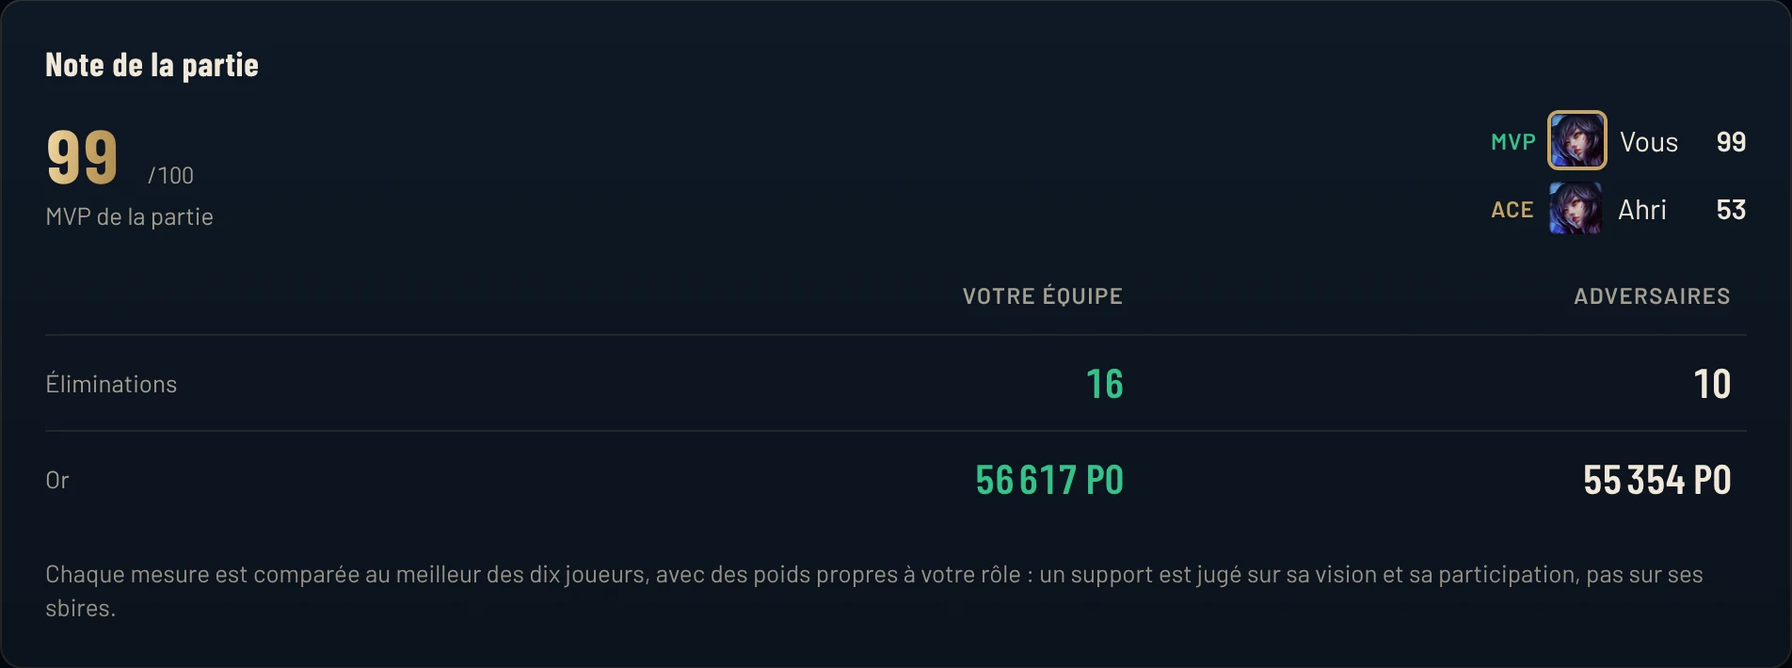
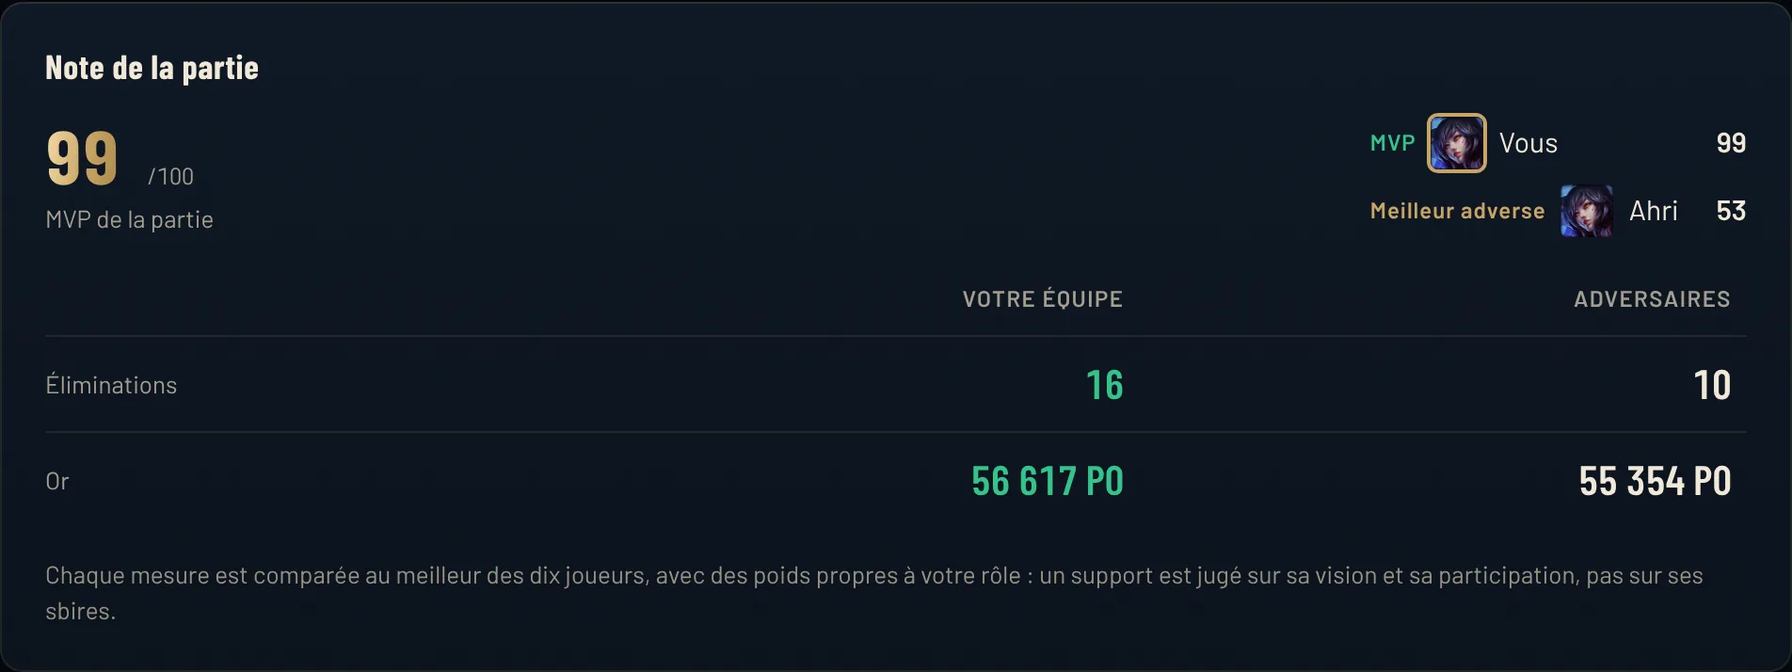
Site : captures et textes à jour de la 0.3.0-beta.16
- Captures reprises depuis l'aperçu de la beta.16 (accueil, sélection,
  bilan en onglets, tier list, collection, chargement, Ctrl+X, HUD, note).
- Version anglaise : ses propres captures dans assets/captures/en/.
- Textes FR/EN : raisons propres à chaque option, 18 niveaux de
  compétences, bilan en quatre onglets, meilleur adverse au lieu d'ACE,
  minuteurs à icônes, or des équipes au TAB, S+ limité aux cinq
  meilleurs, LP du jour sur l'accueil, note sur 100 dans l'historique.
- Anglais : l'app n'est plus annoncée « en français pour l'instant ».

Claude-Session: https://claude.ai/code/session_017boazsWtTrJj6DZK9N5QCn

diff --git a/docs/en/index.html b/docs/en/index.html
@@ -64,11 +64,11 @@
         "url": "https://rifutajine.github.io/rifu-releases/en/",
         "image": "https://rifutajine.github.io/rifu-releases/assets/og.jpg",
         "screenshot": [
-          "https://rifutajine.github.io/rifu-releases/assets/captures/selection.webp",
-          "https://rifutajine.github.io/rifu-releases/assets/captures/chargement.webp",
-          "https://rifutajine.github.io/rifu-releases/assets/captures/panneau.webp",
-          "https://rifutajine.github.io/rifu-releases/assets/captures/bilan.webp",
-          "https://rifutajine.github.io/rifu-releases/assets/captures/collection.webp"
+          "https://rifutajine.github.io/rifu-releases/assets/captures/en/selection.webp",
+          "https://rifutajine.github.io/rifu-releases/assets/captures/en/chargement.webp",
+          "https://rifutajine.github.io/rifu-releases/assets/captures/en/panneau.webp",
+          "https://rifutajine.github.io/rifu-releases/assets/captures/en/bilan.webp",
+          "https://rifutajine.github.io/rifu-releases/assets/captures/en/collection.webp"
         ],
         "featureList": [
           "Draft help from your own pool, based on what your team comp is missing",
@@ -76,7 +76,7 @@
           "Scouting of all ten players on the loading screen",
           "Adjustable in-game overlays: HUD, player panel, item gaps, minimap timers",
           "ARAM and ARAM Mayhem: team gaps, your champion compared with the bench, mode-specific builds, most picked augments",
-          "Post-game score out of 100 with MVP and ACE",
+          "Post-game recap in four tabs, scored out of 100",
           "LP tracking and progression",
           "Tier list by role and champion pages",
           "Skin collection with store value in RP"
@@ -88,8 +88,8 @@
           { "@type": "Question", "name": "Is RIFU free?", "acceptedAnswer": { "@type": "Answer", "text": "Yes, completely. In the long run, RIFU will be funded by discreet ads, only inside the RIFU window and outside games: never in champ select, on the loading screen, in game or in an overlay." } },
           { "@type": "Question", "name": "Does RIFU replace Porofessor or DPM?", "acceptedAnswer": { "@type": "Answer", "text": "That's the goal. RIFU brings loading screen scouting, a draft assistant, in-game overlays, a post-game breakdown and LP tracking into one app, with no subscription. Its strength: it explains what your comp is missing and suggests champions from your own pool." } },
           { "@type": "Question", "name": "Is my account at risk?", "acceptedAnswer": { "@type": "Answer", "text": "RIFU only uses the interfaces Riot provides to third-party apps: the Riot API, the League client API and the live game data. It never reads the game's memory, never modifies League's files and never plays for you." } },
-          { "@type": "Question", "name": "Is the app available in English?", "acceptedAnswer": { "@type": "Answer", "text": "Not yet. For now, the app's interface is in French, as shown in the screenshots on this page." } },
-          { "@type": "Question", "name": "How is the score out of 100 calculated?", "acceptedAnswer": { "@type": "Answer", "text": "Each stat of the game (kills, participation, damage, gold, minions, vision, objectives) is compared with the best of the ten players, then weighted by your role. The best player on the winning team is MVP, the best on the losing team is ACE. It is neither a rank nor an MMR estimate." } },
+          { "@type": "Question", "name": "Is the app available in English?", "acceptedAnswer": { "@type": "Answer", "text": "Yes. The app is fully available in English and French. It follows your Windows language, and you can switch it in Settings › Language." } },
+          { "@type": "Question", "name": "How is the score out of 100 calculated?", "acceptedAnswer": { "@type": "Answer", "text": "Each stat of the game (kills, participation, damage, gold, minions, vision, objectives) is compared with the best of the ten players, then weighted by your role. The best player on the winning team is MVP; the recap also names the best player on the other team. It is neither a rank nor an MMR estimate." } },
           { "@type": "Question", "name": "Do I need to install Overwolf?", "acceptedAnswer": { "@type": "Answer", "text": "No. RIFU is a standalone app: it doesn't need the Overwolf client." } },
           { "@type": "Question", "name": "Which modes, servers and systems?", "acceptedAnswer": { "@type": "Answer", "text": "Summoner's Rift (normals, ranked, Co-op vs. AI, custom games), Swiftplay, ARAM and ARAM Mayhem. In Arena, RIFU gives no draft advice, and Brawl games aren't tracked. EUW server, on Windows 10 and 11." } }
         ]
@@ -138,14 +138,14 @@
             <li>100% free</li>
             <li>Official Riot APIs</li>
             <li>No Overwolf client</li>
-            <li>App in French for now</li>
+            <li>English and French</li>
           </ul>
         </div>
         <div class="scene">
           <div class="scene-inner" data-tilt>
-            <div class="window"><img src="../assets/captures/accueil-1x.webp" srcset="../assets/captures/accueil-1x.webp 1240w, ../assets/captures/accueil.webp 2480w" sizes="(max-width: 960px) 100vw, 640px" width="2480" height="1550" fetchpriority="high" alt="RIFU home screen: the player banner with their rank, today's numbers, recent games and the 30-day LP curve."></div>
-            <img class="float float-hud" src="../assets/captures/hud-1x.webp" srcset="../assets/captures/hud-1x.webp 450w, ../assets/captures/hud.webp 900w" sizes="(max-width: 960px) 40vw, 320px" width="900" height="453" alt="In-game HUD: CS per minute against your lane opponent, kill participation, vision per minute and next item.">
-            <img class="float float-note" src="../assets/captures/note-1x.webp" srcset="../assets/captures/note-1x.webp 952w, ../assets/captures/note.webp 1904w" sizes="(max-width: 960px) 40vw, 320px" width="1904" height="710" alt="Game score: 99 out of 100, MVP.">
+            <div class="window"><img src="../assets/captures/en/accueil-1x.webp" srcset="../assets/captures/en/accueil-1x.webp 1240w, ../assets/captures/en/accueil.webp 2480w" sizes="(max-width: 960px) 100vw, 640px" width="2480" height="1550" fetchpriority="high" alt="RIFU home screen: the player banner with their rank, today's LP, last three games and pool by role."></div>
+            <img class="float float-hud" src="../assets/captures/en/hud-1x.webp" srcset="../assets/captures/en/hud-1x.webp 450w, ../assets/captures/en/hud.webp 900w" sizes="(max-width: 960px) 40vw, 320px" width="900" height="516" alt="In-game HUD: CS per minute against your lane opponent, kill participation, vision per minute and next item.">
+            <img class="float float-note" src="../assets/captures/en/note-1x.webp" srcset="../assets/captures/en/note-1x.webp 952w, ../assets/captures/en/note.webp 1904w" sizes="(max-width: 960px) 40vw, 320px" width="1904" height="678" alt="Game score: 99 out of 100, MVP, and the best enemy.">
           </div>
         </div>
       </div>
@@ -219,17 +219,17 @@
                 <article class="option" data-option>
                   <header><img src="../assets/champions/galio.webp" alt="" width="44" height="44" loading="lazy"><div><b>Galio</b><span>Your pool · 50k mastery</span></div></header>
                   <div class="tags"><em>AP damage</em><em>Frontline</em><em>Engage</em></div>
-                  <p>Fills the missing frontline and magic damage.</p>
+                  <p>The only one with frontline and engage.</p>
                 </article>
                 <article class="option" data-option>
                   <header><img src="../assets/champions/orianna.webp" alt="" width="44" height="44" loading="lazy"><div><b>Orianna</b><span>Your pool · 40k mastery</span></div></header>
                   <div class="tags"><em>AP damage</em><em>Crowd control</em></div>
-                  <p>Magic damage and zone control, solid against Zed.</p>
+                  <p>The only one good against Zed, with zone control.</p>
                 </article>
                 <article class="option" data-option>
                   <header><img src="../assets/champions/ahri.webp" alt="" width="44" height="44" loading="lazy"><div><b>Ahri</b><span>Your pool · 100k mastery</span></div></header>
                   <div class="tags"><em>AP damage</em><em>Comfort</em></div>
-                  <p>Your most played champion: 7 wins out of 10.</p>
+                  <p>You won 7 of 10 games on it: your top comfort pick.</p>
                 </article>
               </div>
             </div>
@@ -258,16 +258,17 @@
             <span class="num" aria-hidden="true">01</span>
             <p class="eyebrow">Champ select</p>
             <h2>Your options, each with its reason</h2>
-            <p>RIFU follows the draft live and shows you what each champion in your pool brings to your team. You always have the final say.</p>
+            <p>RIFU follows the draft live and tells you what each champion in your pool brings that the others don't. You always have the final say.</p>
             </div>
             <ul class="checks">
               <li>Three options from your pool, with no forced ranking</li>
+              <li>A reason of its own for each: “The only one with engage”, “You won 4 of 5 games on it”</li>
               <li>Type any champion: RIFU rates it alongside the others</li>
               <li>Suggested bans and an “us vs. them” comp view, axis by axis</li>
-              <li>Runes, summoner spells and item set imported in one click</li>
+              <li>Runes, summoner spells, all 18 skill levels and item set imported in one click</li>
             </ul>
           </div>
-          <figure class="shot-frame reveal"><a class="zoom" href="../assets/captures/selection.webp"><img class="main" src="../assets/captures/selection-1x.webp" srcset="../assets/captures/selection-1x.webp 1240w, ../assets/captures/selection.webp 2480w" sizes="(max-width: 1200px) 100vw, 1160px" width="2480" height="1550" loading="lazy" alt="Champ select in RIFU: your team, the enemies and three options from your pool, Ahri, Galio and Orianna, with their reasons."></a></figure>
+          <figure class="shot-frame reveal"><a class="zoom" href="../assets/captures/en/selection.webp"><img class="main" src="../assets/captures/en/selection-1x.webp" srcset="../assets/captures/en/selection-1x.webp 1240w, ../assets/captures/en/selection.webp 2480w" sizes="(max-width: 1200px) 100vw, 1160px" width="2480" height="1550" loading="lazy" alt="Champ select in RIFU: your team, the enemies and three options from your pool, Ahri, Galio and Orianna, each with what it brings that the others don't."></a></figure>
         </div>
       </section>
 
@@ -283,11 +284,11 @@
             <ul class="checks">
               <li>Rank, mastery, form and activity of every player, row by row</li>
               <li>Premades spelled out: “Duo with Poing”, “Trio with…”</li>
-              <li>Tags such as “On fire”, “One-trick” and “Losing streak”</li>
+              <li>Tags such as “On a roll”, “One-trick” and “Loss streak”</li>
               <li>Each team's power spikes and gaps, the game plan in one sentence</li>
             </ul>
           </div>
-          <figure class="shot-frame reveal"><a class="zoom" href="../assets/captures/chargement.webp"><img class="main" src="../assets/captures/chargement-1x.webp" srcset="../assets/captures/chargement-1x.webp 1280w, ../assets/captures/chargement.webp 2560w" sizes="(max-width: 1200px) 100vw, 1160px" width="2560" height="1440" loading="lazy" alt="RIFU's full-screen loading screen: the game plan up top, then all ten players with their skin art, rank, tags, form and premade group."></a></figure>
+          <figure class="shot-frame reveal"><a class="zoom" href="../assets/captures/en/chargement.webp"><img class="main" src="../assets/captures/en/chargement-1x.webp" srcset="../assets/captures/en/chargement-1x.webp 1280w, ../assets/captures/en/chargement.webp 2560w" sizes="(max-width: 1200px) 100vw, 1160px" width="2560" height="1440" loading="lazy" alt="RIFU's full-screen loading screen: the game plan up top, then all ten players with their skin art, rank, tags, form and premade group."></a></figure>
         </div>
       </section>
 
@@ -304,13 +305,13 @@
               <li>CS/min against your lane opponent, kill participation, vision per minute</li>
               <li>Next item, adapted to the enemy comp without weakening your champion</li>
               <li>Skill to level up, and a gold halo on your ward when you're missing one</li>
-              <li>Minimap timers, and your team's Baron and Elder buffs</li>
-              <li>Item gaps lane by lane while holding <kbd>TAB</kbd></li>
+              <li>Minimap timers with one icon per objective, dragon and Baron in gold</li>
+              <li>Team gold and item gaps lane by lane while holding <kbd>TAB</kbd></li>
             </ul>
           </div>
           <figure class="shot-frame reveal">
-            <a class="zoom" href="../assets/captures/panneau.webp"><img class="main" src="../assets/captures/panneau-1x.webp" srcset="../assets/captures/panneau-1x.webp 1440w, ../assets/captures/panneau.webp 2880w" sizes="(max-width: 1200px) 100vw, 1160px" width="2880" height="1800" loading="lazy" alt="Ctrl + X panel in game: all ten players with their rank, form, premade group and items, then the recommended build and next item."></a>
-            <img class="float float-hud" src="../assets/captures/hud-1x.webp" srcset="../assets/captures/hud-1x.webp 450w, ../assets/captures/hud.webp 900w" sizes="(max-width: 960px) 40vw, 320px" width="900" height="453" loading="lazy" alt="RIFU's in-game HUD: CS per minute against your opponent, kill participation, vision and next item.">
+            <a class="zoom" href="../assets/captures/en/panneau.webp"><img class="main" src="../assets/captures/en/panneau-1x.webp" srcset="../assets/captures/en/panneau-1x.webp 1440w, ../assets/captures/en/panneau.webp 2880w" sizes="(max-width: 1200px) 100vw, 1160px" width="2880" height="1800" loading="lazy" alt="Ctrl + X panel in game: all ten players with their rank, form, premade group and items, then the recommended build and next item."></a>
+            <img class="float float-hud" src="../assets/captures/en/hud-1x.webp" srcset="../assets/captures/en/hud-1x.webp 450w, ../assets/captures/en/hud.webp 900w" sizes="(max-width: 960px) 40vw, 320px" width="900" height="516" loading="lazy" alt="RIFU's in-game HUD: CS per minute against your opponent, kill participation, vision and next item.">
           </figure>
         </div>
       </section>
@@ -325,15 +326,16 @@
             <p>Each stat is compared with the best of the ten players, weighted by your role. A support is judged on vision, not on minions.</p>
             </div>
             <ul class="checks">
-              <li>Game score, MVP and ACE, and the score of all ten players</li>
+              <li>Four tabs: Summary, Timeline, You and the draft, Players</li>
+              <li>Game score, MVP and best enemy, and the score of all ten players</li>
               <li>Ally and enemy names: one click opens their profile</li>
-              <li>Gold and XP difference minute by minute, your deaths on the map</li>
+              <li>Gold and XP difference minute by minute, ahead and behind zones, your deaths on the map</li>
               <li>CS and gold at 10 and 15 minutes against your opponent, LP gained or lost</li>
             </ul>
           </div>
           <figure class="shot-frame reveal">
-            <a class="zoom" href="../assets/captures/bilan.webp"><img class="main" src="../assets/captures/bilan-1x.webp" srcset="../assets/captures/bilan-1x.webp 1240w, ../assets/captures/bilan.webp 2480w" sizes="(max-width: 1200px) 100vw, 1160px" width="2480" height="1550" loading="lazy" alt="Post-game summary: victory, LP gained, badges, the key moments of the game and the gold difference curve."></a>
-            <img class="float float-note" src="../assets/captures/note-1x.webp" srcset="../assets/captures/note-1x.webp 952w, ../assets/captures/note.webp 1904w" sizes="(max-width: 960px) 40vw, 320px" width="1904" height="710" loading="lazy" alt="Game score: 99 out of 100, MVP.">
+            <a class="zoom" href="../assets/captures/en/bilan.webp"><img class="main" src="../assets/captures/en/bilan-1x.webp" srcset="../assets/captures/en/bilan-1x.webp 1240w, ../assets/captures/en/bilan.webp 2480w" sizes="(max-width: 1200px) 100vw, 1160px" width="2480" height="1550" loading="lazy" alt="Post-game recap, Summary tab: victory, LP gained, badges, your last eight games, the key points and your main numbers."></a>
+            <img class="float float-note" src="../assets/captures/en/note-1x.webp" srcset="../assets/captures/en/note-1x.webp 952w, ../assets/captures/en/note.webp 1904w" sizes="(max-width: 960px) 40vw, 320px" width="1904" height="678" loading="lazy" alt="Game score: 99 out of 100, MVP, and the best enemy.">
           </figure>
         </div>
       </section>
@@ -391,8 +393,8 @@
           <article class="tile big reveal">
             <div class="ico"><svg viewBox="0 0 24 24" fill="none" stroke="currentColor" stroke-width="2" stroke-linecap="round" stroke-linejoin="round" aria-hidden="true"><path d="M3 3v18h18"/><path d="m7 15 4-4 3 3 5-6"/></svg></div>
             <h3>Tier list by role</h3>
-            <p>Top three podium, S+ to D tiers and a “My pool” filter, computed by RIFU from EUW ranked games in Emerald and above.</p>
-            <div class="tile-img"><a class="zoom" href="../assets/captures/tier-list.webp"><img src="../assets/captures/tier-list-1x.webp" srcset="../assets/captures/tier-list-1x.webp 1240w, ../assets/captures/tier-list.webp 2480w" sizes="(max-width: 1200px) 100vw, 1160px" width="2480" height="1550" loading="lazy" alt="RIFU mid lane tier list: podium of Mel, Lux and Heimerdinger, then the ranking by tier with win, pick and ban rates."></a></div>
+            <p>Top three podium, S+ to D tiers (S+ only for the five best in the role) and a “My pool” filter, computed by RIFU from EUW ranked games in Emerald and above.</p>
+            <div class="tile-img"><a class="zoom" href="../assets/captures/en/tier-list.webp"><img src="../assets/captures/en/tier-list-1x.webp" srcset="../assets/captures/en/tier-list-1x.webp 1240w, ../assets/captures/en/tier-list.webp 2480w" sizes="(max-width: 1200px) 100vw, 1160px" width="2480" height="1550" loading="lazy" alt="RIFU mid lane tier list: podium of Mel, Lux and Heimerdinger, then the ranking by tier with win, pick and ban rates."></a></div>
           </article>
           <article class="tile reveal">
             <div class="ico"><svg viewBox="0 0 24 24" fill="none" stroke="currentColor" stroke-width="2" stroke-linecap="round" stroke-linejoin="round" aria-hidden="true"><path d="M12 2v4"/><path d="m4.9 4.9 2.8 2.8"/><path d="M2 12h4"/><circle cx="12" cy="12" r="4"/><path d="M12 18v4"/><path d="M18 12h4"/></svg></div>
@@ -402,18 +404,18 @@
           <article class="tile reveal">
             <div class="stat grad">+132&nbsp;LP</div>
             <h3>LP tracking</h3>
-            <p>30-day LP curve, even for games played with RIFU closed.</p>
+            <p>Today's LP on the home screen, 30-day curve in Progress, even for games played with RIFU closed.</p>
           </article>
           <article class="tile reveal">
             <div class="ico"><svg viewBox="0 0 24 24" fill="none" stroke="currentColor" stroke-width="2" stroke-linecap="round" stroke-linejoin="round" aria-hidden="true"><path d="M2 12s3.5-7 10-7 10 7 10 7-3.5 7-10 7S2 12 2 12Z"/><circle cx="12" cy="12" r="3"/></svg></div>
             <h3>Player profiles</h3>
-            <p>Ranks, match history, tags and champions of any EUW player.</p>
+            <p>Ranks, tags and champions of any EUW player, with every game in their history scored out of 100.</p>
           </article>
           <article class="tile big reveal">
             <div class="ico"><svg viewBox="0 0 24 24" fill="none" stroke="currentColor" stroke-width="2" stroke-linecap="round" stroke-linejoin="round" aria-hidden="true"><path d="M20.4 6.6 16 4a4 4 0 0 1-8 0L3.6 6.6a1 1 0 0 0-.5 1.2l1.4 4a1 1 0 0 0 1.3.6L7 12v8a1 1 0 0 0 1 1h8a1 1 0 0 0 1-1v-8l1.2.4a1 1 0 0 0 1.3-.6l1.4-4a1 1 0 0 0-.5-1.2Z"/></svg></div>
             <h3>Skin collection</h3>
             <p>Your skins out of the total, completion, store value in RP and your chromas. Filter by champion or by skin line: the collection stays on your PC.</p>
-            <div class="tile-img"><a class="zoom" href="../assets/captures/collection.webp"><img src="../assets/captures/collection-1x.webp" srcset="../assets/captures/collection-1x.webp 1240w, ../assets/captures/collection.webp 2480w" sizes="(max-width: 1200px) 100vw, 1160px" width="2480" height="1550" loading="lazy" alt="RIFU Collection page: 267 skins owned out of 1,959, store value of 272,930 RP, 71 chromas, filters and skins by champion."></a></div>
+            <div class="tile-img"><a class="zoom" href="../assets/captures/en/collection.webp"><img src="../assets/captures/en/collection-1x.webp" srcset="../assets/captures/en/collection-1x.webp 1240w, ../assets/captures/en/collection.webp 2480w" sizes="(max-width: 1200px) 100vw, 1160px" width="2480" height="1550" loading="lazy" alt="RIFU Collection page: 267 skins owned out of 1,959, store value of 272,930 RP, 71 chromas, filters and skins by champion."></a></div>
           </article>
           <article class="tile reveal">
             <div class="ico"><svg viewBox="0 0 24 24" fill="none" stroke="currentColor" stroke-width="2" stroke-linecap="round" stroke-linejoin="round" aria-hidden="true"><path d="M4 19.5v-15A2.5 2.5 0 0 1 6.5 2H20v20H6.5a2.5 2.5 0 0 1 0-5H20"/></svg></div>
@@ -438,7 +440,7 @@
           <article class="tile wide reveal">
             <div class="ico"><svg viewBox="0 0 24 24" fill="none" stroke="currentColor" stroke-width="2" stroke-linecap="round" stroke-linejoin="round" aria-hidden="true"><path d="M4 21v-7"/><path d="M4 10V3"/><path d="M12 21v-9"/><path d="M12 8V3"/><path d="M20 21v-5"/><path d="M20 12V3"/><path d="M2 14h4"/><path d="M10 8h4"/><path d="M18 16h4"/></svg></div>
             <h3>Overlays your way</h3>
-            <p>Opacity from 30 to 100%, set separately for the HUD, and size from 80 to 130%.</p>
+            <p>Opacity from 30 to 100%, set separately for the HUD, and size from 80 to 130%. Text stays readable even when very transparent.</p>
           </article>
           <article class="tile wide reveal">
             <div class="ico"><svg viewBox="0 0 24 24" fill="none" stroke="currentColor" stroke-width="2" stroke-linecap="round" stroke-linejoin="round" aria-hidden="true"><path d="M21 12a9 9 0 1 1-3-6.7L21 8"/><path d="M21 3v5h-5"/></svg></div>
@@ -542,7 +544,7 @@
               <li>League of Legends, EUW server</li>
               <li>About 100 MB to download</li>
               <li>Automatic updates, never during a game</li>
-              <li>App interface in French for now</li>
+              <li>App in English or French, in Settings › Language</li>
             </ul>
           </div>
           <div class="card">
@@ -576,7 +578,7 @@
           </details>
           <details>
             <summary>Is the app available in English?</summary>
-            <p>Not yet. For now, the app's interface is in French, as shown in the screenshots on this page.</p>
+            <p>Yes. The app is fully available in English and French. It follows your Windows language, and you can switch it in Settings › Language.</p>
           </details>
           <details>
             <summary>Is my account at risk?</summary>
@@ -589,7 +591,7 @@
           </details>
           <details>
             <summary>How is the score out of 100 calculated?</summary>
-            <p>Each stat of the game (kills, participation, damage, gold, minions, vision, objectives) is compared with the best of the ten players, then weighted by your role. The best player on the winning team is MVP, the best on the losing team is ACE. It is neither a rank nor an MMR estimate.</p>
+            <p>Each stat of the game (kills, participation, damage, gold, minions, vision, objectives) is compared with the best of the ten players, then weighted by your role. The best player on the winning team is MVP; the recap also names the best player on the other team. It is neither a rank nor an MMR estimate.</p>
           </details>
           <details>
             <summary>Do the overlays get in the way?</summary>

diff --git a/docs/index.html b/docs/index.html
@@ -76,7 +76,7 @@
           "Scouting des dix joueurs à l'écran de chargement",
           "Overlays en jeu réglables : HUD, panneau des joueurs, écarts d'équipement, minuteurs sur la mini-carte",
           "ARAM et ARAM Mayhem : manques de l'équipe, champion comparé au banc, builds du mode, augments les plus choisis",
-          "Bilan de partie noté sur 100 avec MVP et ACE",
+          "Bilan de partie en quatre onglets, noté sur 100",
           "Suivi des LP et progression",
           "Tier list par rôle et fiches champions",
           "Collection de skins avec valeur boutique en RP"
@@ -88,7 +88,7 @@
           { "@type": "Question", "name": "RIFU est-il gratuit ?", "acceptedAnswer": { "@type": "Answer", "text": "Oui, entièrement. À terme, RIFU sera financé par une publicité discrète, uniquement dans la fenêtre RIFU et hors partie : jamais en sélection, au chargement, en jeu ni dans un overlay." } },
           { "@type": "Question", "name": "RIFU remplace-t-il Porofessor ou DPM ?", "acceptedAnswer": { "@type": "Answer", "text": "C'est son ambition. RIFU réunit dans une seule app le scouting de l'écran de chargement, l'assistant de draft, les overlays en jeu, le bilan de partie et le suivi des LP, sans abonnement. Son point fort : il explique ce qui manque à votre compo et propose des champions de votre propre pool." } },
           { "@type": "Question", "name": "Est-ce que je risque quelque chose avec mon compte ?", "acceptedAnswer": { "@type": "Answer", "text": "RIFU n'utilise que les interfaces que Riot met à disposition des applications tierces : l'API Riot, l'API du client League et les données de la partie en cours. Il ne lit jamais la mémoire du jeu, ne modifie aucun fichier de League et ne joue jamais à votre place." } },
-          { "@type": "Question", "name": "Comment est calculée la note sur 100 ?", "acceptedAnswer": { "@type": "Answer", "text": "Chaque mesure de la partie (éliminations, participation, dégâts, or, sbires, vision, objectifs) est rapportée au meilleur des dix joueurs, puis pondérée selon votre rôle. Le meilleur de l'équipe gagnante est MVP, celui de l'équipe perdante est ACE. Ce n'est ni un rang ni une estimation de MMR." } },
+          { "@type": "Question", "name": "Comment est calculée la note sur 100 ?", "acceptedAnswer": { "@type": "Answer", "text": "Chaque mesure de la partie (éliminations, participation, dégâts, or, sbires, vision, objectifs) est rapportée au meilleur des dix joueurs, puis pondérée selon votre rôle. Le meilleur de l'équipe gagnante est MVP ; le bilan nomme aussi le meilleur de l'autre équipe. Ce n'est ni un rang ni une estimation de MMR." } },
           { "@type": "Question", "name": "Faut-il installer Overwolf ?", "acceptedAnswer": { "@type": "Answer", "text": "Non. RIFU est une application autonome : elle n'a pas besoin du client Overwolf." } },
           { "@type": "Question", "name": "Quels modes, quels serveurs, quels systèmes ?", "acceptedAnswer": { "@type": "Answer", "text": "La Faille de l'invocateur (normales, classées, Coop contre IA, parties personnalisées), la Partie rapide, l'ARAM et l'ARAM Mayhem. En Arena, RIFU ne donne pas de conseil de draft, et les parties Brawl ne sont pas suivies. Serveur EUW, sur Windows 10 et 11." } }
         ]
@@ -141,9 +141,9 @@
         </div>
         <div class="scene">
           <div class="scene-inner" data-tilt>
-            <div class="window"><img src="assets/captures/accueil-1x.webp" srcset="assets/captures/accueil-1x.webp 1240w, assets/captures/accueil.webp 2480w" sizes="(max-width: 960px) 100vw, 640px" width="2480" height="1550" fetchpriority="high" alt="Accueil de RIFU : bandeau du joueur avec son rang, ses chiffres du jour, ses dernières parties et la courbe des LP sur 30 jours."></div>
-            <img class="float float-hud" src="assets/captures/hud-1x.webp" srcset="assets/captures/hud-1x.webp 450w, assets/captures/hud.webp 900w" sizes="(max-width: 960px) 40vw, 320px" width="900" height="453" alt="HUD en partie : CS par minute face à l'adversaire de lane, participation, vision par minute et prochain achat.">
-            <img class="float float-note" src="assets/captures/note-1x.webp" srcset="assets/captures/note-1x.webp 952w, assets/captures/note.webp 1904w" sizes="(max-width: 960px) 40vw, 320px" width="1904" height="710" alt="Note de la partie : 99 sur 100, MVP.">
+            <div class="window"><img src="assets/captures/accueil-1x.webp" srcset="assets/captures/accueil-1x.webp 1240w, assets/captures/accueil.webp 2480w" sizes="(max-width: 960px) 100vw, 640px" width="2480" height="1550" fetchpriority="high" alt="Accueil de RIFU : bandeau du joueur avec son rang, ses LP du jour, ses trois dernières parties et son pool par rôle."></div>
+            <img class="float float-hud" src="assets/captures/hud-1x.webp" srcset="assets/captures/hud-1x.webp 450w, assets/captures/hud.webp 900w" sizes="(max-width: 960px) 40vw, 320px" width="900" height="516" alt="HUD en partie : CS par minute face à l'adversaire de lane, participation, vision par minute et prochain achat.">
+            <img class="float float-note" src="assets/captures/note-1x.webp" srcset="assets/captures/note-1x.webp 952w, assets/captures/note.webp 1904w" sizes="(max-width: 960px) 40vw, 320px" width="1904" height="714" alt="Note de la partie : 99 sur 100, MVP, et le meilleur adverse.">
           </div>
         </div>
       </div>
@@ -217,17 +217,17 @@
                 <article class="option" data-option>
                   <header><img src="assets/champions/galio.webp" alt="" width="44" height="44" loading="lazy"><div><b>Galio</b><span>Votre pool · maîtrise 50 k</span></div></header>
                   <div class="tags"><em>Dégâts AP</em><em>Frontline</em><em>Engage</em></div>
-                  <p>Comble la frontline et les dégâts magiques qui manquent.</p>
+                  <p>Le seul avec de la frontline et de l'engage.</p>
                 </article>
                 <article class="option" data-option>
                   <header><img src="assets/champions/orianna.webp" alt="" width="44" height="44" loading="lazy"><div><b>Orianna</b><span>Votre pool · maîtrise 40 k</span></div></header>
                   <div class="tags"><em>Dégâts AP</em><em>Contrôle</em></div>
-                  <p>Dégâts magiques et contrôle de zone, solide contre Zed.</p>
+                  <p>Le seul bon contre Zed, avec du contrôle de zone.</p>
                 </article>
                 <article class="option" data-option>
                   <header><img src="assets/champions/ahri.webp" alt="" width="44" height="44" loading="lazy"><div><b>Ahri</b><span>Votre pool · maîtrise 100 k</span></div></header>
                   <div class="tags"><em>Dégâts AP</em><em>Confort</em></div>
-                  <p>Votre champion le plus joué : 7 victoires sur 10.</p>
+                  <p>Vous l'avez gagné 7 fois sur 10 : votre meilleur repère de confort.</p>
                 </article>
               </div>
             </div>
@@ -256,16 +256,17 @@
             <span class="num" aria-hidden="true">01</span>
             <p class="eyebrow">Sélection des champions</p>
             <h2>Vos options, chacune avec sa raison</h2>
-            <p>RIFU suit la draft en direct et vous montre ce que chaque champion de votre pool apporte à votre équipe. Vous gardez toujours le dernier mot.</p>
+            <p>RIFU suit la draft en direct et vous dit ce que chaque champion de votre pool apporte de plus que les autres. Vous gardez toujours le dernier mot.</p>
             </div>
             <ul class="checks">
               <li>Trois options de votre pool, sans classement imposé</li>
+              <li>Une raison propre à chacune : «&nbsp;Le seul avec de l'engage&nbsp;», «&nbsp;Vous l'avez gagné 4 fois sur 5&nbsp;»</li>
               <li>Tapez n'importe quel champion : RIFU l'évalue à côté des autres</li>
               <li>Bans suggérés et compo «&nbsp;nous contre eux&nbsp;», axe par axe</li>
-              <li>Runes, sorts et set d'objets importés en un clic</li>
+              <li>Runes, sorts, ordre des 18 compétences et set d'objets importés en un clic</li>
             </ul>
           </div>
-          <figure class="shot-frame reveal"><a class="zoom" href="assets/captures/selection.webp"><img class="main" src="assets/captures/selection-1x.webp" srcset="assets/captures/selection-1x.webp 1240w, assets/captures/selection.webp 2480w" sizes="(max-width: 1200px) 100vw, 1160px" width="2480" height="1550" loading="lazy" alt="Sélection des champions dans RIFU : votre équipe, les adversaires et trois options de votre pool, Ahri, Galio et Orianna, avec leurs raisons."></a></figure>
+          <figure class="shot-frame reveal"><a class="zoom" href="assets/captures/selection.webp"><img class="main" src="assets/captures/selection-1x.webp" srcset="assets/captures/selection-1x.webp 1240w, assets/captures/selection.webp 2480w" sizes="(max-width: 1200px) 100vw, 1160px" width="2480" height="1550" loading="lazy" alt="Sélection des champions dans RIFU : votre équipe, les adversaires et trois options de votre pool, Ahri, Galio et Orianna, chacune avec ce qu'elle apporte de plus."></a></figure>
         </div>
       </section>
 
@@ -302,13 +303,13 @@
               <li>CS/min face à votre adversaire de lane, participation, vision par minute</li>
               <li>Prochain achat, adapté à la compo adverse sans affaiblir votre champion</li>
               <li>Compétence à monter et halo doré sur votre balise quand il en manque une</li>
-              <li>Minuteurs sur la mini-carte, buffs Nashor et Ancestral de votre équipe</li>
-              <li>Écart d'équipement ligne par ligne en maintenant <kbd>TAB</kbd></li>
+              <li>Minuteurs sur la mini-carte, une icône par objectif, dragon et Nashor en or</li>
+              <li>Or des équipes et écart d'équipement ligne par ligne en maintenant <kbd>TAB</kbd></li>
             </ul>
           </div>
           <figure class="shot-frame reveal">
             <a class="zoom" href="assets/captures/panneau.webp"><img class="main" src="assets/captures/panneau-1x.webp" srcset="assets/captures/panneau-1x.webp 1440w, assets/captures/panneau.webp 2880w" sizes="(max-width: 1200px) 100vw, 1160px" width="2880" height="1800" loading="lazy" alt="Panneau Ctrl + X en partie : les dix joueurs avec leur rang, leur forme, leur groupe et leurs objets, puis le build conseillé et le prochain achat."></a>
-            <img class="float float-hud" src="assets/captures/hud-1x.webp" srcset="assets/captures/hud-1x.webp 450w, assets/captures/hud.webp 900w" sizes="(max-width: 960px) 40vw, 320px" width="900" height="453" loading="lazy" alt="HUD de RIFU en partie : CS par minute face à l'adversaire, participation, vision et prochain achat.">
+            <img class="float float-hud" src="assets/captures/hud-1x.webp" srcset="assets/captures/hud-1x.webp 450w, assets/captures/hud.webp 900w" sizes="(max-width: 960px) 40vw, 320px" width="900" height="516" loading="lazy" alt="HUD de RIFU en partie : CS par minute face à l'adversaire, participation, vision et prochain achat.">
           </figure>
         </div>
       </section>
@@ -323,15 +324,16 @@
             <p>Chaque mesure est comparée au meilleur des dix joueurs, avec des poids propres à votre rôle. Un support est jugé sur sa vision, pas sur ses sbires.</p>
             </div>
             <ul class="checks">
-              <li>Note de la partie, MVP et ACE, et la note des dix joueurs</li>
+              <li>Quatre onglets : Résumé, Déroulé, Vous et la draft, Joueurs</li>
+              <li>Note de la partie, MVP et meilleur adverse, et la note des dix joueurs</li>
               <li>Pseudos des alliés et des ennemis : un clic ouvre leur profil</li>
-              <li>Écart d'or et d'XP minute par minute, vos morts sur la carte</li>
+              <li>Écart d'or et d'XP minute par minute, zones d'avance et de retard, vos morts sur la carte</li>
               <li>CS et or à 10 et 15 minutes face à votre adversaire, LP gagnés ou perdus</li>
             </ul>
           </div>
           <figure class="shot-frame reveal">
-            <a class="zoom" href="assets/captures/bilan.webp"><img class="main" src="assets/captures/bilan-1x.webp" srcset="assets/captures/bilan-1x.webp 1240w, assets/captures/bilan.webp 2480w" sizes="(max-width: 1200px) 100vw, 1160px" width="2480" height="1550" loading="lazy" alt="Bilan de fin de partie : victoire, LP gagnés, badges, l'essentiel de la partie et la courbe d'écart d'or."></a>
-            <img class="float float-note" src="assets/captures/note-1x.webp" srcset="assets/captures/note-1x.webp 952w, assets/captures/note.webp 1904w" sizes="(max-width: 960px) 40vw, 320px" width="1904" height="710" loading="lazy" alt="Note de la partie : 99 sur 100, MVP.">
+            <a class="zoom" href="assets/captures/bilan.webp"><img class="main" src="assets/captures/bilan-1x.webp" srcset="assets/captures/bilan-1x.webp 1240w, assets/captures/bilan.webp 2480w" sizes="(max-width: 1200px) 100vw, 1160px" width="2480" height="1550" loading="lazy" alt="Bilan de fin de partie, onglet Résumé : victoire, LP gagnés, badges, vos huit dernières parties, l'essentiel et vos chiffres clés."></a>
+            <img class="float float-note" src="assets/captures/note-1x.webp" srcset="assets/captures/note-1x.webp 952w, assets/captures/note.webp 1904w" sizes="(max-width: 960px) 40vw, 320px" width="1904" height="714" loading="lazy" alt="Note de la partie : 99 sur 100, MVP, et le meilleur adverse.">
           </figure>
         </div>
       </section>
@@ -389,7 +391,7 @@
           <article class="tile big reveal">
             <div class="ico"><svg viewBox="0 0 24 24" fill="none" stroke="currentColor" stroke-width="2" stroke-linecap="round" stroke-linejoin="round" aria-hidden="true"><path d="M3 3v18h18"/><path d="m7 15 4-4 3 3 5-6"/></svg></div>
             <h3>Tier list par rôle</h3>
-            <p>Podium des trois meilleurs, tiers S+ à D et filtre «&nbsp;Mon pool&nbsp;», calculés par RIFU sur les parties classées EUW Émeraude et plus.</p>
+            <p>Podium des trois meilleurs, tiers S+ à D (S+ réservé aux cinq meilleurs du rôle) et filtre «&nbsp;Mon pool&nbsp;», calculés par RIFU sur les parties classées EUW Émeraude et plus.</p>
             <div class="tile-img"><a class="zoom" href="assets/captures/tier-list.webp"><img src="assets/captures/tier-list-1x.webp" srcset="assets/captures/tier-list-1x.webp 1240w, assets/captures/tier-list.webp 2480w" sizes="(max-width: 1200px) 100vw, 1160px" width="2480" height="1550" loading="lazy" alt="Tier list RIFU du mid : podium Mel, Lux, Heimerdinger, puis le classement par palier avec victoires, choix et bannissements."></a></div>
           </article>
           <article class="tile reveal">
@@ -400,12 +402,12 @@
           <article class="tile reveal">
             <div class="stat grad">+132&nbsp;LP</div>
             <h3>Suivi des LP</h3>
-            <p>Courbe des LP sur 30 jours, même pour les parties jouées RIFU fermé.</p>
+            <p>LP du jour sur l'accueil, courbe sur 30 jours dans Progression, même pour les parties jouées RIFU fermé.</p>
           </article>
           <article class="tile reveal">
             <div class="ico"><svg viewBox="0 0 24 24" fill="none" stroke="currentColor" stroke-width="2" stroke-linecap="round" stroke-linejoin="round" aria-hidden="true"><path d="M2 12s3.5-7 10-7 10 7 10 7-3.5 7-10 7S2 12 2 12Z"/><circle cx="12" cy="12" r="3"/></svg></div>
             <h3>Profils joueurs</h3>
-            <p>Rangs, historique, tags et champions de n'importe quel joueur EUW.</p>
+            <p>Rangs, tags et champions de n'importe quel joueur EUW, et chaque partie de son historique notée sur 100.</p>
           </article>
           <article class="tile big reveal">
             <div class="ico"><svg viewBox="0 0 24 24" fill="none" stroke="currentColor" stroke-width="2" stroke-linecap="round" stroke-linejoin="round" aria-hidden="true"><path d="M20.4 6.6 16 4a4 4 0 0 1-8 0L3.6 6.6a1 1 0 0 0-.5 1.2l1.4 4a1 1 0 0 0 1.3.6L7 12v8a1 1 0 0 0 1 1h8a1 1 0 0 0 1-1v-8l1.2.4a1 1 0 0 0 1.3-.6l1.4-4a1 1 0 0 0-.5-1.2Z"/></svg></div>
@@ -436,7 +438,7 @@
           <article class="tile wide reveal">
             <div class="ico"><svg viewBox="0 0 24 24" fill="none" stroke="currentColor" stroke-width="2" stroke-linecap="round" stroke-linejoin="round" aria-hidden="true"><path d="M4 21v-7"/><path d="M4 10V3"/><path d="M12 21v-9"/><path d="M12 8V3"/><path d="M20 21v-5"/><path d="M20 12V3"/><path d="M2 14h4"/><path d="M10 8h4"/><path d="M18 16h4"/></svg></div>
             <h3>Overlays à votre goût</h3>
-            <p>Opacité de 30 à 100 %, réglable à part pour le HUD, et taille de 80 à 130 %.</p>
+            <p>Opacité de 30 à 100 %, réglable à part pour le HUD, et taille de 80 à 130 %. Le texte reste lisible même très transparent.</p>
           </article>
           <article class="tile wide reveal">
             <div class="ico"><svg viewBox="0 0 24 24" fill="none" stroke="currentColor" stroke-width="2" stroke-linecap="round" stroke-linejoin="round" aria-hidden="true"><path d="M21 12a9 9 0 1 1-3-6.7L21 8"/><path d="M21 3v5h-5"/></svg></div>
@@ -540,6 +542,7 @@
               <li>League of Legends, serveur EUW</li>
               <li>Environ 100 Mo à télécharger</li>
               <li>Mises à jour automatiques, jamais pendant une partie</li>
+              <li>App en français ou en anglais, dans Réglages › Langue</li>
             </ul>
           </div>
           <div class="card">
@@ -582,7 +585,7 @@
           </details>
           <details>
             <summary>Comment est calculée la note sur 100 ?</summary>
-            <p>Chaque mesure de la partie (éliminations, participation, dégâts, or, sbires, vision, objectifs) est rapportée au meilleur des dix joueurs, puis pondérée selon votre rôle. Le meilleur de l'équipe gagnante est MVP, celui de l'équipe perdante est ACE. Ce n'est ni un rang ni une estimation de MMR.</p>
+            <p>Chaque mesure de la partie (éliminations, participation, dégâts, or, sbires, vision, objectifs) est rapportée au meilleur des dix joueurs, puis pondérée selon votre rôle. Le meilleur de l'équipe gagnante est MVP ; le bilan nomme aussi le meilleur de l'autre équipe. Ce n'est ni un rang ni une estimation de MMR.</p>
           </details>
           <details>
             <summary>Les overlays gênent-ils le jeu ?</summary>

diff --git a/README.md b/README.md
@@ -9,7 +9,7 @@ Site statique, sans outil de construction : `docs/index.html` (accueil, démo de
 - **Mise en ligne** : Settings › Pages › Build and deployment › Source « Deploy from a branch », branche `main`, dossier `/docs`. Adresse : <https://rifutajine.github.io/rifu-releases/>.
 - **Téléchargement** : le bouton pointe tout seul vers l'installeur `RIFU-Setup-<version>.exe` de la dernière release publiée (pré-versions comprises). Rien à modifier à chaque version.
 - **Réglages** : en tête de `docs/assets/site.js`, `discordUrl` et `contactEmail`. Laissés vides, les liens correspondants sont masqués. L'adresse de contact figure aussi en clair dans les mentions légales de `docs/confidentialite.html`.
-- **Captures** : `docs/assets/captures/`, tirées de l'aperçu fictif de l'app (`npx tsx scripts/preview.ts` dans `apps/desktop` de RIFU---App, adresses avec `&capture=1` pour masquer le bandeau de l'aperçu), toutes à l'échelle 2 : fenêtre de l'app en 1240 × 775, écran de chargement en 1280 × 720, panneau Ctrl + X en 1440 × 900, HUD à l'échelle 3 sans la barre « Glissez pour déplacer » propre à l'aperçu, note sur 100 = carte « Note de la partie » du bilan. Chaque capture existe en deux tailles : `nom.webp` (2×, ouverte en grand au clic) et `nom-1x.webp` (moitié, pour les petits écrans), servies par `srcset`. Les liens `a.zoom` ouvrent la capture en grand (`wireLightbox` dans `site.js`). L'aperçu n'a pas de données ARAM : la section des modes n'a pas de capture.
+- **Captures** : `docs/assets/captures/`, tirées de l'aperçu fictif de l'app (`npx tsx scripts/preview.ts` dans `apps/desktop` de RIFU---App, adresses avec `&capture=1` pour masquer le bandeau de l'aperçu), toutes à l'échelle 2 : fenêtre de l'app en 1240 × 775, écran de chargement en 1280 × 720, panneau Ctrl + X en 1440 × 900, HUD à l'échelle 3 dans une fenêtre de 300 px de large, sans la barre « Glissez pour déplacer » propre à l'aperçu, note sur 100 = carte « Note de la partie » du bilan. La version anglaise a ses propres captures dans `docs/assets/captures/en/`, mêmes noms et mêmes tailles, prises avec l'aperçu lancé en `RIFU_PREVIEW_LANG=en` (adresses avec `&lang=en`). Chaque capture existe en deux tailles : `nom.webp` (2×, ouverte en grand au clic) et `nom-1x.webp` (moitié, pour les petits écrans), servies par `srcset`. Les liens `a.zoom` ouvrent la capture en grand (`wireLightbox` dans `site.js`). L'aperçu n'a pas de données ARAM : la section des modes n'a pas de capture.
 - **Illustrations** : `docs/assets/art/` (splash arts du héros et de l'appel final) et `docs/assets/champions/` (icônes 96 × 96 de la démo de draft), issus de Data Dragon, dans le cadre de la politique « Legal Jibber Jabber » de Riot.
 - **Deux langues** : toute modification de `docs/index.html` se reporte dans `docs/en/index.html`. Les textes écrits par le script (démo, téléchargement, agrandissement) sont dans `TEXTS` de `docs/assets/site.js`, choisis selon le `lang` de la page. Les deux pages se déclarent l'une l'autre en `hreflang`, et `sitemap.xml` aussi.
 - **Démo de draft** : scénario dans `DEMO_PICKS` de `docs/assets/site.js`, manques affichés dans `TEXTS.<langue>.gaps`. Les noms et les options sont dans le HTML, pour rester lisibles sans script.
